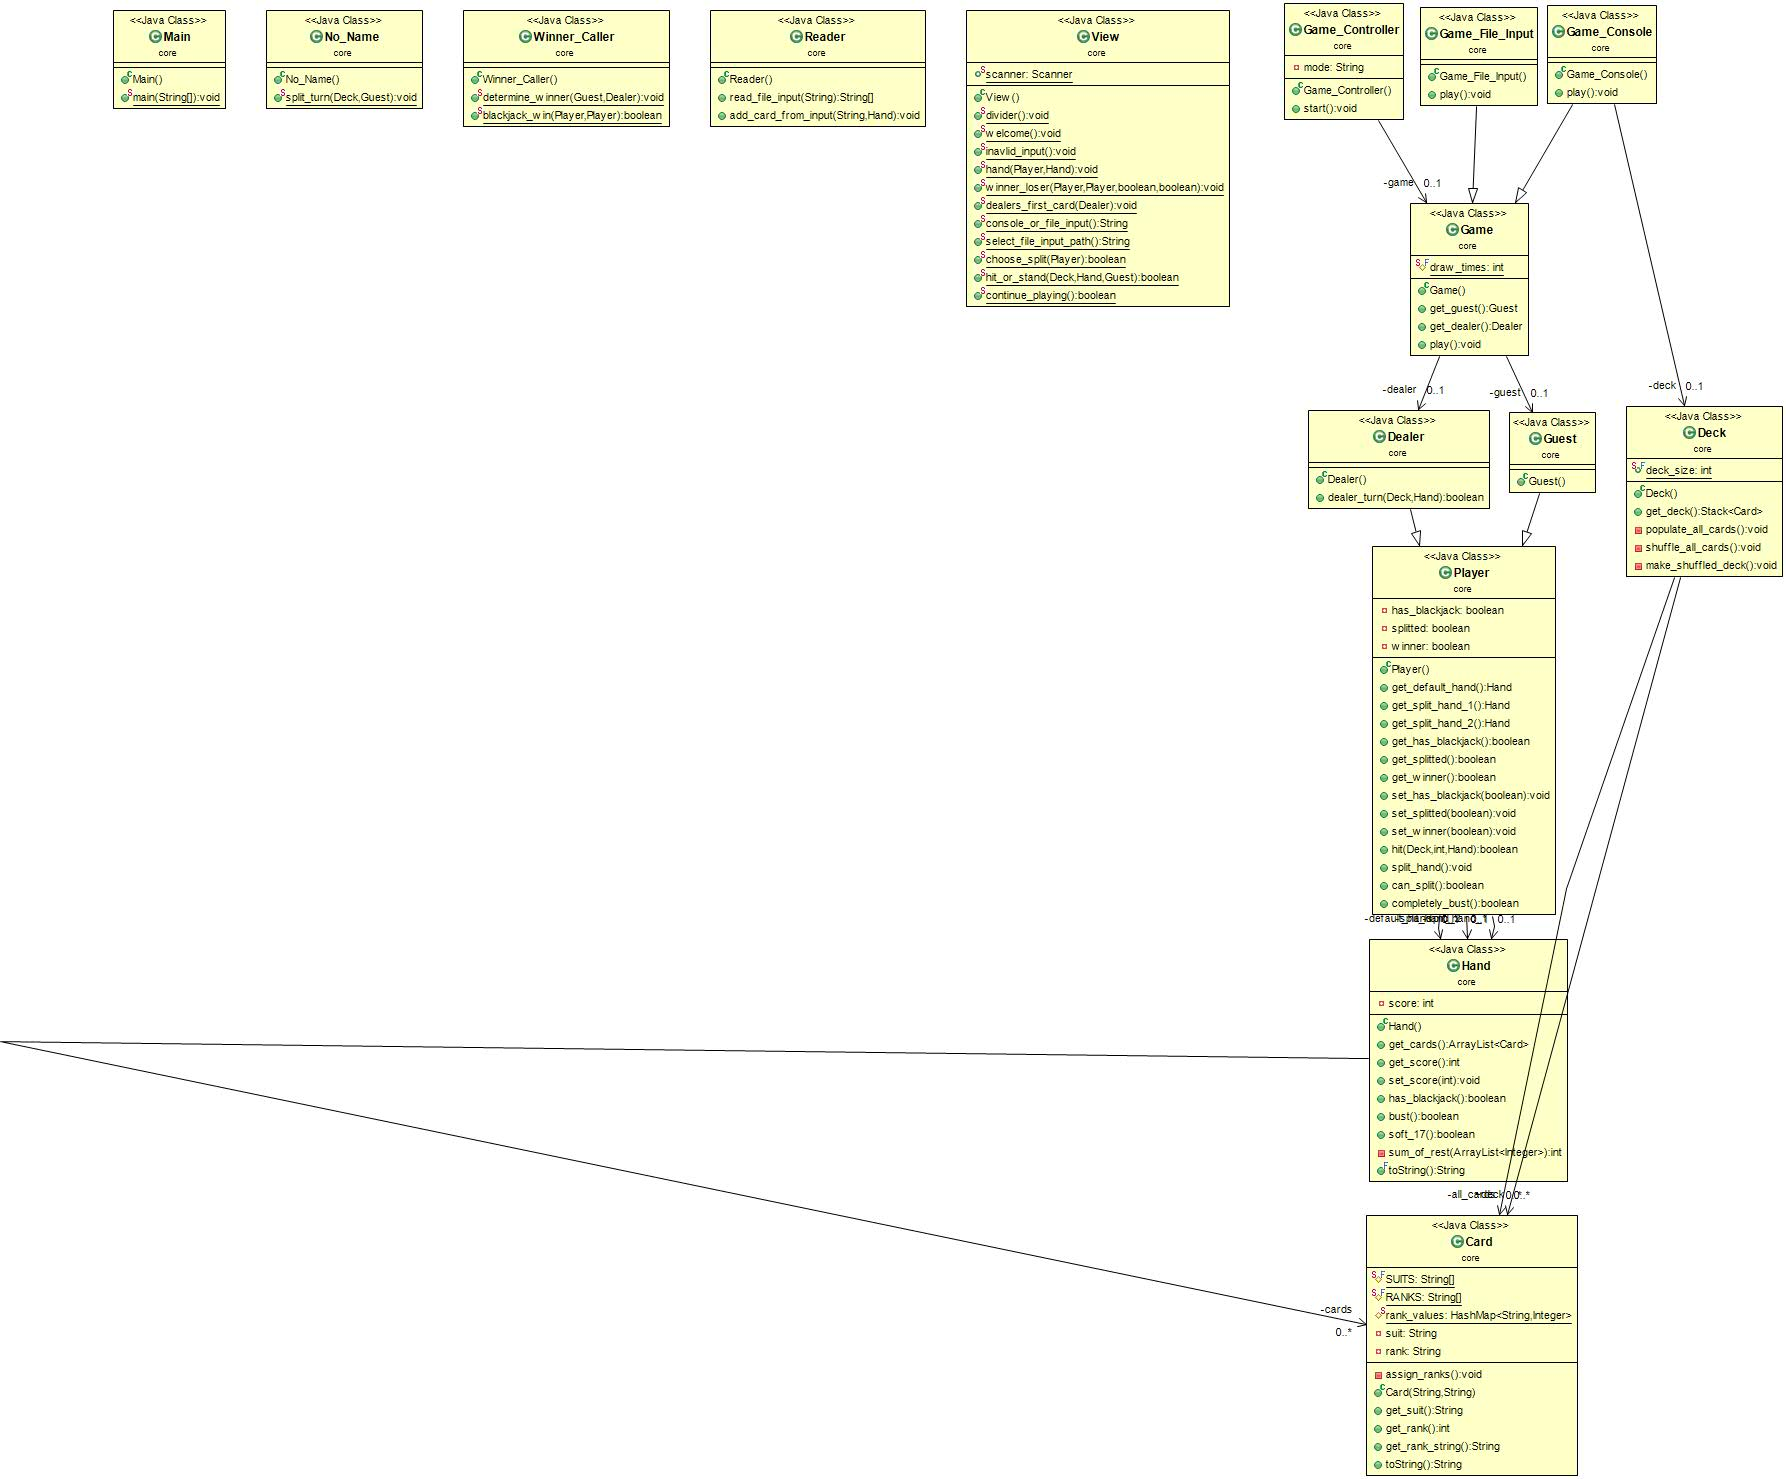
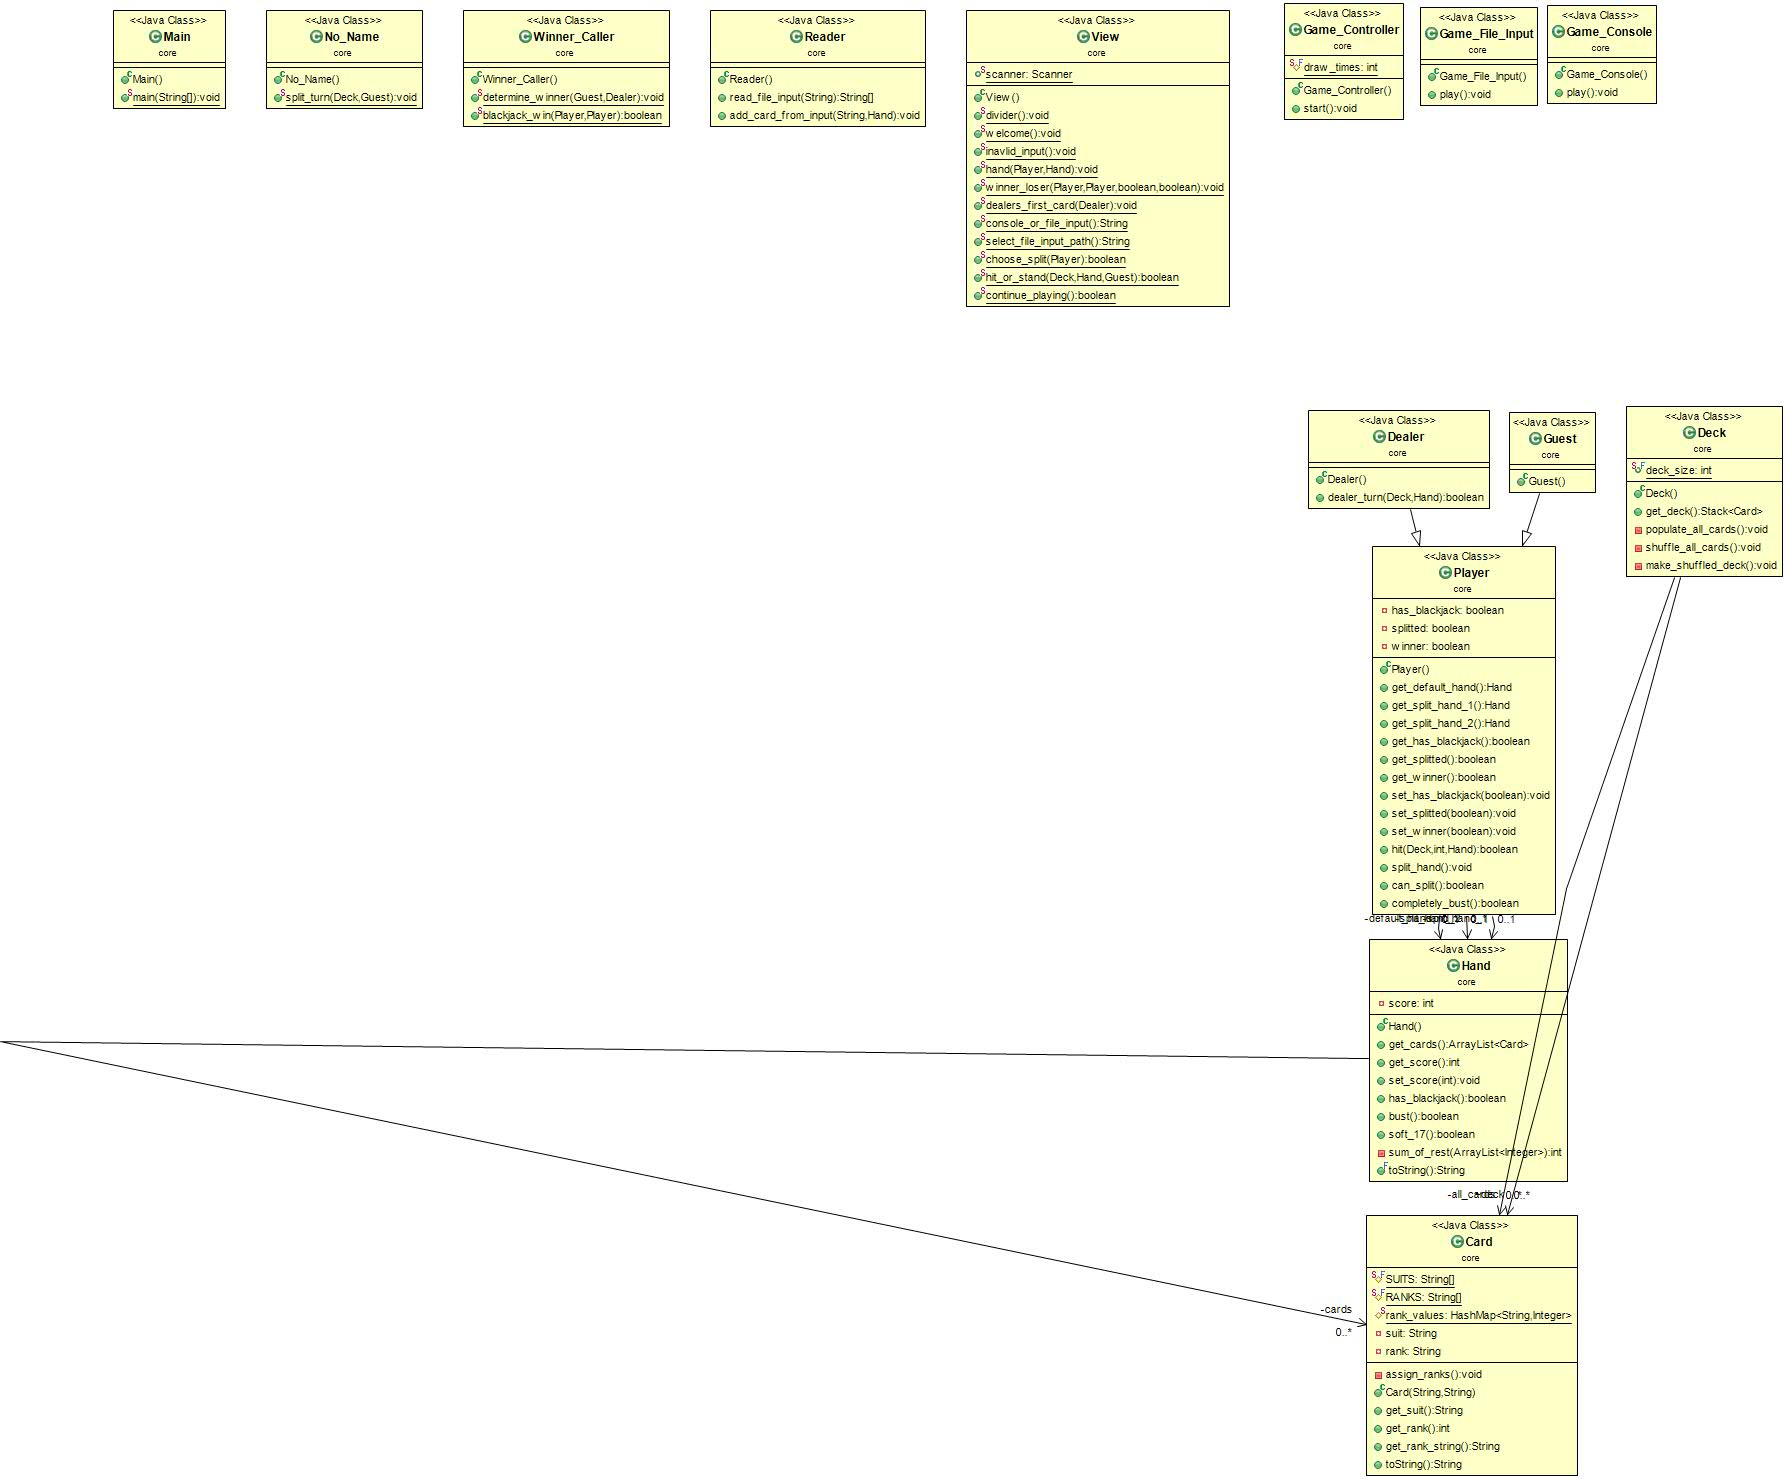
Refactor: Games
* Composition over inheritance

Changed region(s): [[0.7699, 0.1244, 0.8623, 0.2799], [0.9239, 0.2488, 0.9546, 0.2799], [0.7391, 0.0311, 0.7699, 0.0622]]

diff --git a/Maven_Project/src/main/java/core/Game_Console.java b/Maven_Project/src/main/java/core/Game_Console.java
@@ -3,65 +3,55 @@ package core;
 import java.io.FileNotFoundException;
 import java.io.IOException;
 
-public class Game_Console extends Game {
-	
-	/************************
-	 * INSTANCE VARIABLE(S) *
-	 ************************/
-	private Deck deck;
-	
-	/******************
-	 * CONSTRUCTOR(S) *
-	 ******************/
-	public Game_Console() {
-		super();
-		deck = new Deck();
-	}
+public class Game_Console {
 	
 	/**
 	 * Play using console input.
 	 * @throws IOException 
 	 * @throws FileNotFoundException 
 	 */
-	@Override
 	public void play() throws FileNotFoundException, IOException {
+		Dealer dealer = new Dealer();
+		Deck deck = new Deck();
+		Guest guest = new Guest();
+		
 		View.divider();
 
 		// Guest setup
-		get_guest().hit(deck, draw_times, get_guest().get_default_hand());
-		View.hand(get_guest(), get_guest().get_default_hand());
+		guest.hit(deck, Game_Controller.draw_times, guest.get_default_hand());
+		View.hand(guest, guest.get_default_hand());
 
 		// Dealer setup
-		get_dealer().hit(deck, draw_times, get_dealer().get_default_hand());
-		View.dealers_first_card(get_dealer());
+		dealer.hit(deck, Game_Controller.draw_times, dealer.get_default_hand());
+		View.dealers_first_card(dealer);
 
-		Winner_Caller.blackjack_win(get_guest(), get_dealer());
+		Winner_Caller.blackjack_win(guest, dealer);
 
 		game:
-			if(!get_guest().get_winner() && !get_dealer().get_winner()) {
+			if(!guest.get_winner() && !dealer.get_winner()) {
 				// Guest's turn
-				if(get_guest().can_split() && View.choose_split(get_guest())) {
-					get_guest().split_hand();
-					No_Name.split_turn(deck, get_guest());
+				if(guest.can_split() && View.choose_split(guest)) {
+					guest.split_hand();
+					No_Name.split_turn(deck, guest);
 				}
-				else View.hit_or_stand(deck, get_guest().get_default_hand(), get_guest());
+				else View.hit_or_stand(deck, guest.get_default_hand(), guest);
 
-				if(Winner_Caller.blackjack_win(get_guest(), get_dealer())) break game;
+				if(Winner_Caller.blackjack_win(guest, dealer)) break game;
 
 				// Dealer's turn
-				if(!get_guest().completely_bust()) {
-					View.hand(get_dealer(), get_dealer().get_default_hand());
-					if(get_dealer().can_split() && View.choose_split(get_dealer())) {
-						get_dealer().split_hand();
-						get_dealer().dealer_turn(deck, get_dealer().get_split_hand_1());
-						get_dealer().dealer_turn(deck, get_dealer().get_split_hand_2());
+				if(!guest.completely_bust()) {
+					View.hand(dealer, dealer.get_default_hand());
+					if(dealer.can_split() && View.choose_split(dealer)) {
+						dealer.split_hand();
+						dealer.dealer_turn(deck, dealer.get_split_hand_1());
+						dealer.dealer_turn(deck, dealer.get_split_hand_2());
 					}
-					else get_dealer().dealer_turn(deck, get_dealer().get_default_hand());
+					else dealer.dealer_turn(deck, dealer.get_default_hand());
 				}
 			}
 
 		// End game
-		Winner_Caller.determine_winner(get_guest(), get_dealer());
+		Winner_Caller.determine_winner(guest, dealer);
 	}
 
 }

diff --git a/Maven_Project/src/main/java/core/Game_File_Input.java b/Maven_Project/src/main/java/core/Game_File_Input.java
@@ -3,14 +3,7 @@ package core;
 import java.io.FileNotFoundException;
 import java.io.IOException;
 
-public class Game_File_Input extends Game {
-	
-	/******************
-	 * CONSTRUCTOR(S) *
-	 ******************/
-	public Game_File_Input() {
-		super();
-	}
+public class Game_File_Input {
 	
 	/**
 	 * Play using file input.
@@ -19,6 +12,8 @@ public class Game_File_Input extends Game {
 	 */
 	public void play() throws FileNotFoundException, IOException {
 		// Local variables
+		Dealer dealer = new Dealer();
+		Guest guest = new Guest();
 		boolean stand = false;
 
 		// Read file input
@@ -27,10 +22,10 @@ public class Game_File_Input extends Game {
 		View.divider();
 
 		// Draw player's first two cards
-		for(int i = 0; i < draw_times; i++) reader.add_card_from_input(input_line[i], get_guest().get_default_hand());
+		for(int i = 0; i < Game_Controller.draw_times; i++) reader.add_card_from_input(input_line[i], guest.get_default_hand());
 
 		// Draw dealer's first two cards
-		for(int i = draw_times; i < 4; i++) reader.add_card_from_input(input_line[i], get_dealer().get_default_hand());
+		for(int i = Game_Controller.draw_times; i < 4; i++) reader.add_card_from_input(input_line[i], dealer.get_default_hand());
 
 		// Go through rest of the input
 		input:
@@ -47,12 +42,12 @@ public class Game_File_Input extends Game {
 					}
 				}
 
-				if(!stand) reader.add_card_from_input(input_line[i], get_guest().get_default_hand());
-				else reader.add_card_from_input(input_line[i], get_dealer().get_default_hand());	
+				if(!stand) reader.add_card_from_input(input_line[i], guest.get_default_hand());
+				else reader.add_card_from_input(input_line[i], dealer.get_default_hand());	
 			}
 
 		// End game
-		Winner_Caller.determine_winner(get_guest(), get_dealer());
+		Winner_Caller.determine_winner(guest, dealer);
 	}
 
 }

diff --git a/Maven_Project/src/main/java/core/Game_Controller.java b/Maven_Project/src/main/java/core/Game_Controller.java
@@ -4,19 +4,11 @@ import java.io.FileNotFoundException;
 import java.io.IOException;
 
 public class Game_Controller {
-
-	/************************
-	 * INSTANCE VARIABLE(S) *
-	 ************************/
-	private String mode;
-	private Game game;
-
-	/******************
-	 * CONSTRUCTOR(S) *
-	 ******************/
-	public Game_Controller() {
-		mode = "";
-	}
+	
+	/*********************
+	 * CLASS VARIABLE(S) *
+	 *********************/
+	protected final static int draw_times = 2;
 
 	/********
 	 * ELSE *
@@ -29,25 +21,26 @@ public class Game_Controller {
 	 */
 	public void start() throws FileNotFoundException, IOException {
 		View.welcome();
-		mode = View.console_or_file_input();
+		String mode = View.console_or_file_input();
 		
 		boolean continue_playing = true;
 		
 		while(continue_playing) {
 			switch(mode) {
 			case "c":
-				game = new Game_Console();
+				Game_Console game_console = new Game_Console();
+				game_console.play();
 				break;
 			case "f":
-				game = new Game_File_Input();
+				Game_File_Input game_file_input = new Game_File_Input();
+				game_file_input.play();
 				break;
 			default:
 				View.inavlid_input();
 				start();
 				return;
 			}
-			
-			game.play();
+
 			continue_playing = View.continue_playing();
 		}
 

diff --git a/Maven_Project/src/test/java/core/Tests.java b/Maven_Project/src/test/java/core/Tests.java
@@ -14,7 +14,6 @@ public class Tests extends TestCase {
 	 *********/
 	Dealer dealer = new Dealer();
 	Deck deck = new Deck();
-	Game game = new Game();
 	Guest guest = new Guest();
 	HashMap<String, Card> cards = new HashMap<>(52);
 
